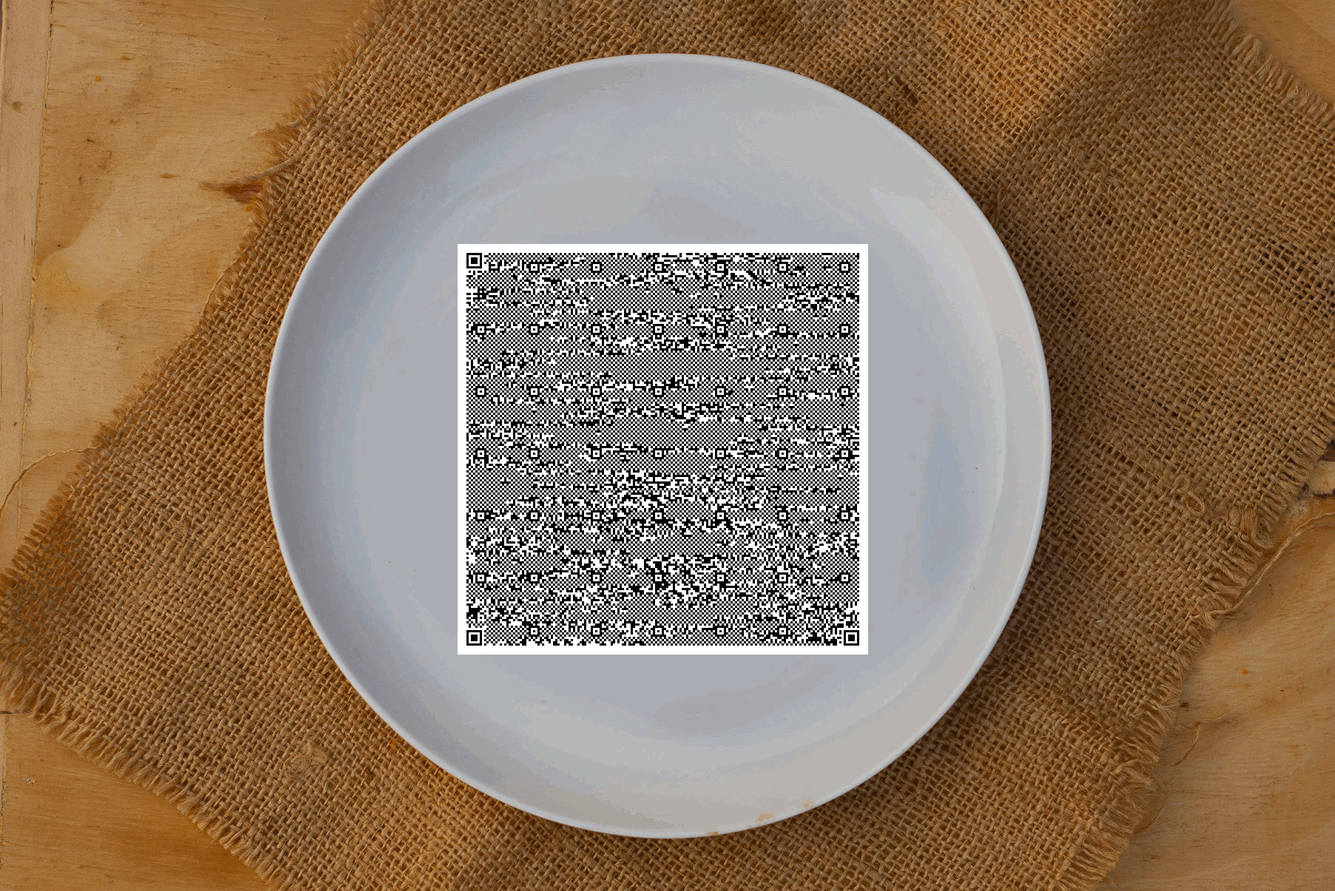
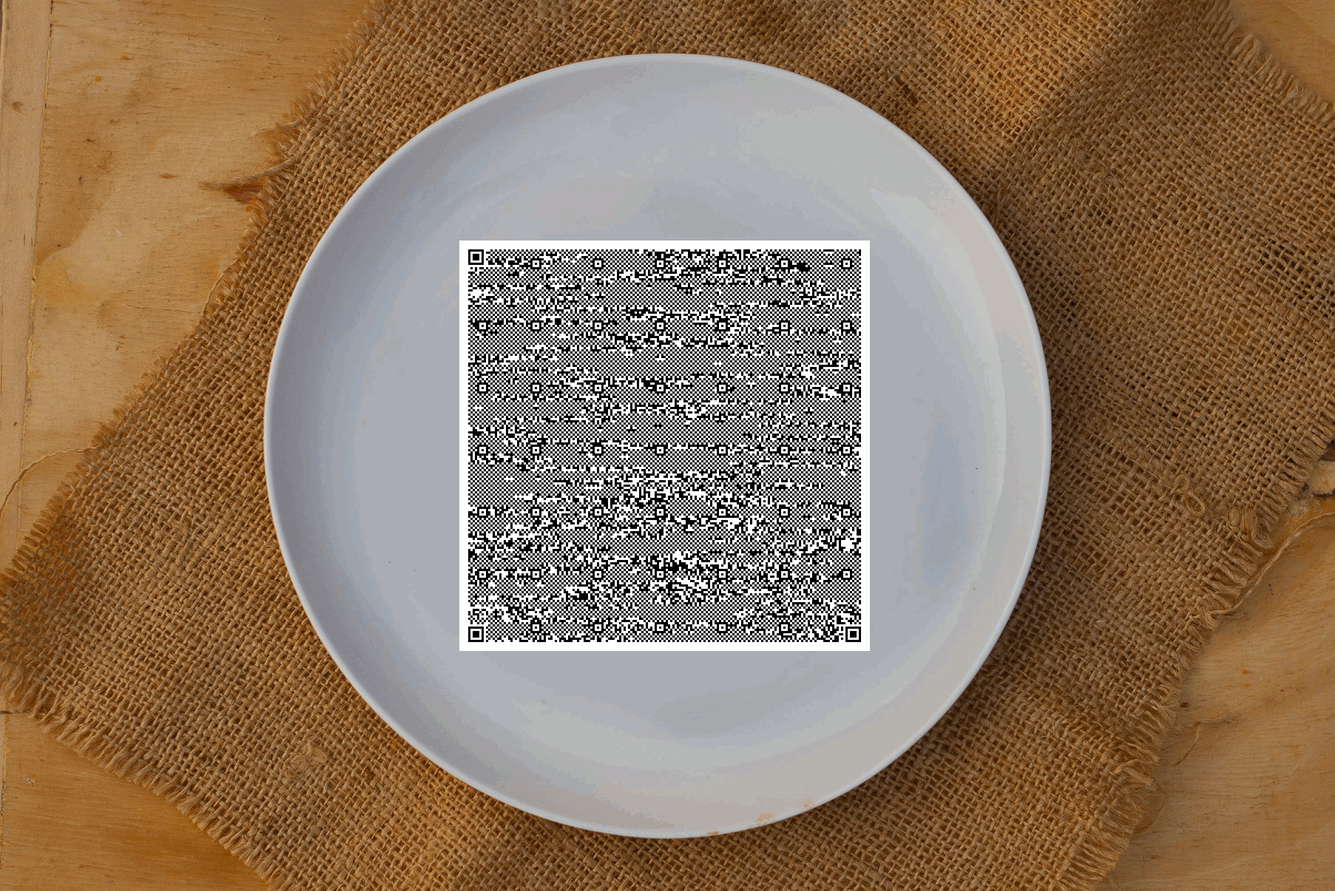
Chef's Special

Changed region(s): [[0.3438, 0.247, 0.6562, 0.741]]

diff --git a/challenges/chefs_special/solution/readme.md b/challenges/chefs_special/solution/readme.md
@@ -8,7 +8,6 @@ The steps taken to create the challenge:
 - To Binary
 - To Base64
 - To Hex
-- To Base85 (!-u Alpahbet)
 - Tar
 - Zip
 - Gzip
@@ -23,7 +22,6 @@ So, to find the flag, we can use CyberChef again.
 - Gunzip
 - Unzip
 - Untar
-- From Base85
 - From Hex
 - From Base64
 - From Binary
